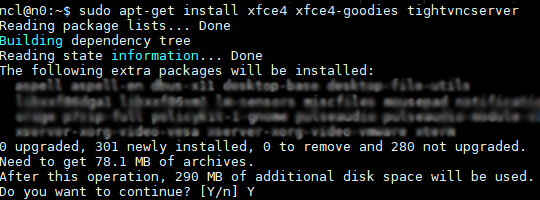
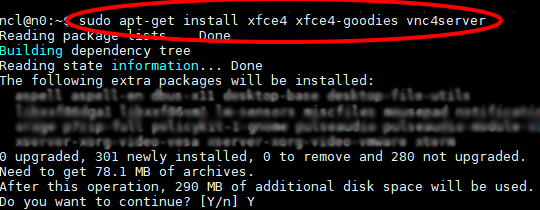
Updated vnc tutorial

diff --git a/src/main/resources/templates/usegui.html b/src/main/resources/templates/usegui.html
@@ -48,7 +48,7 @@
                     <p>Install deskstop and VNC server using the following commands:</p>
                     <ol>
                         <li>sudo apt-get update</li>
-                        <li>sudo apt-get install xfce4 xfce4-goodies tightvncserver</li>
+                        <li>sudo apt-get install xfce4 xfce4-goodies vnc4server</li>
                     </ol>
                 </div>
                 <div class="col-sm-6">
@@ -68,7 +68,7 @@
             <div class="heading col-sm-12 tutorialbackground">
                 <div class="col-sm-6">
                     <h2>Step 5</h2>
-                    <p>Verify that VNC server is started and is listening to port 5901 using the command "netstat&nbsp;-pant&nbsp;|&nbsp;grep&nbsp;'Xtightvnc'".</p>
+                    <p>Verify that VNC server is started and is listening to port 5901 using the command "netstat&nbsp;-pant&nbsp;|&nbsp;grep&nbsp;'vnc'".</p>
                 </div>
                 <div class="col-sm-6">
                     <img class="img-responsive" preload="true" minimal-lightbox="../images/vncnetstat.png" src="../images/vncnetstat.png" width="500" alt="screenshot"/>
